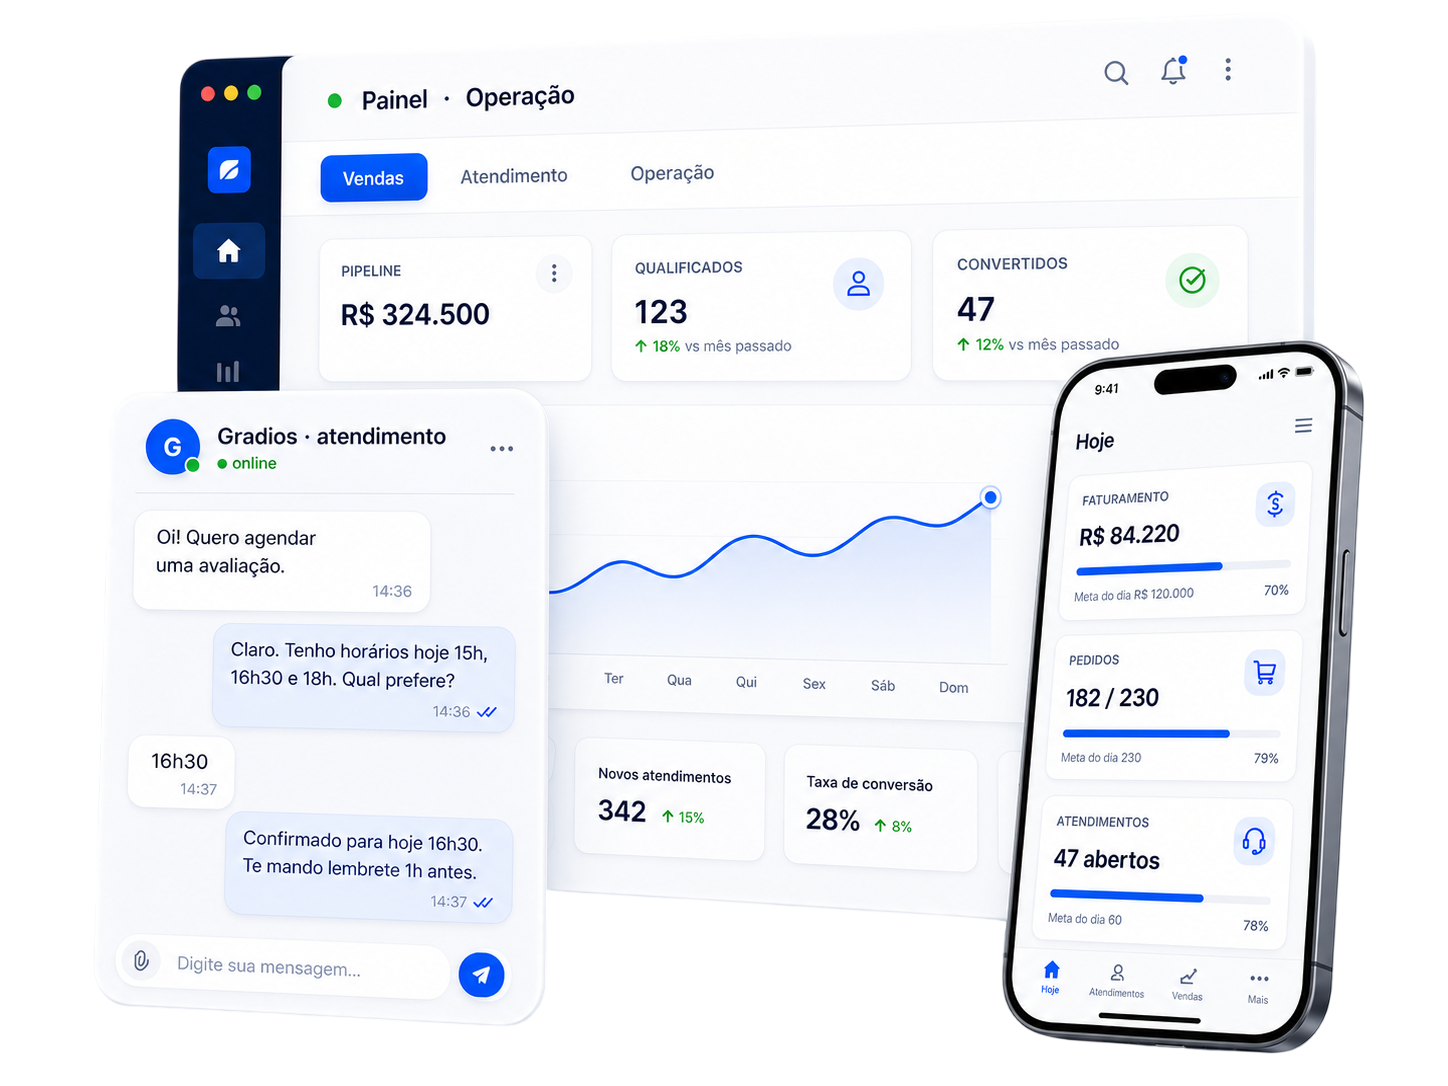
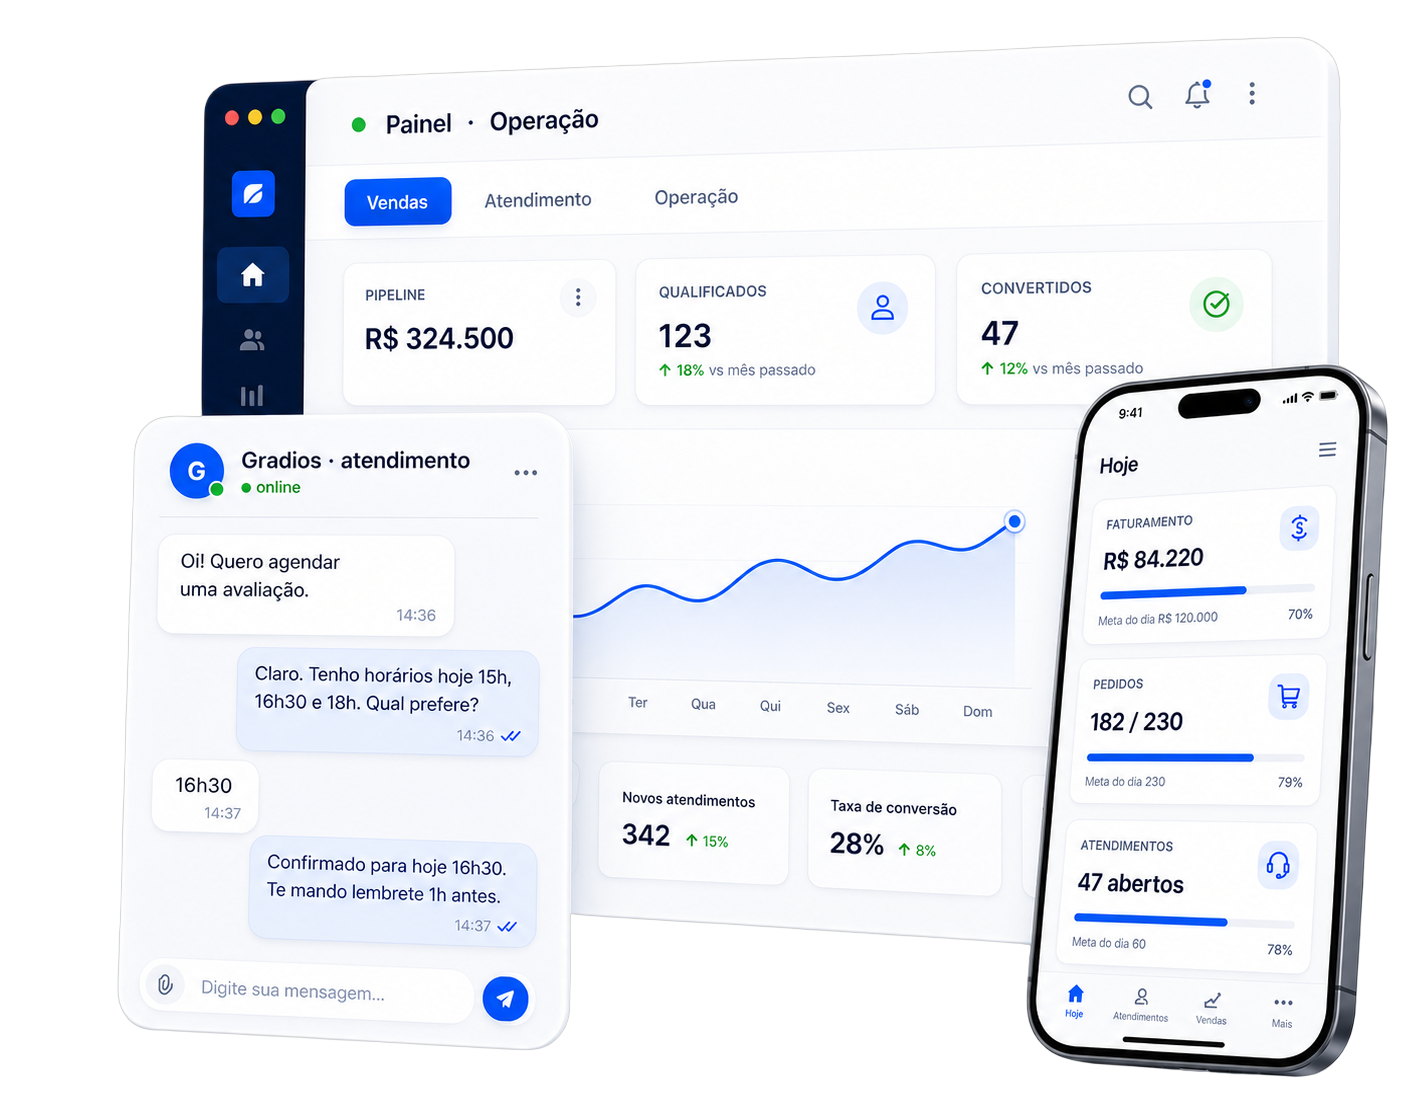
Fix(site): hero sem corte no notebook + sombra única
- Remove translateX que cortava o dashboard em telas 1280-1366px
- Sombra única e sutil (mockup já tem sombras embutidas)
- Recorta margens da arte e atualiza width/height + cache-bust

diff --git a/apps/site/assets/site.css b/apps/site/assets/site.css
@@ -652,20 +652,19 @@ a:focus-visible { outline-offset: 3px; }
 .hero-img {
   display: block;
   width: 100%;
-  max-width: 640px;
+  max-width: 560px;
   height: auto;
   object-fit: contain;
   user-select: none;
   -webkit-user-select: none;
   -webkit-user-drag: none;
   pointer-events: none;
-  filter:
-    drop-shadow(0 30px 60px rgba(10,27,61,0.18))
-    drop-shadow(0 10px 22px rgba(37,70,189,0.10));
+  /* sombra única e sutil — o mockup já traz sombras embutidas */
+  filter: drop-shadow(0 16px 38px rgba(10,27,61,0.10));
 }
 @media (min-width: 1280px) {
-  /* desktop: presença forte, leve sangria para a direita */
-  .hero-img { max-width: 700px; transform: translateX(3%); }
+  /* desktop: presença forte, mas contida na coluna (sem corte) */
+  .hero-img { max-width: 640px; }
 }
 .fscreen {
   position: absolute;

diff --git a/apps/site/index.html b/apps/site/index.html
@@ -271,12 +271,12 @@
           <!-- Hero visual: imagem premium -->
           <div class="hero-visual" data-parallax>
             <picture>
-              <source srcset="assets/hero-operacao.webp?v=20260618a" type="image/webp">
+              <source srcset="assets/hero-operacao.webp?v=20260618b" type="image/webp">
               <img
                 class="hero-img"
-                src="assets/hero-operacao.png?v=20260618a"
+                src="assets/hero-operacao.png?v=20260618b"
                 alt="Painel de operação com dashboard, atendimento e métricas"
-                width="1448" height="1086"
+                width="1413" height="1102"
                 fetchpriority="high" decoding="async" draggable="false">
             </picture>
           </div>
